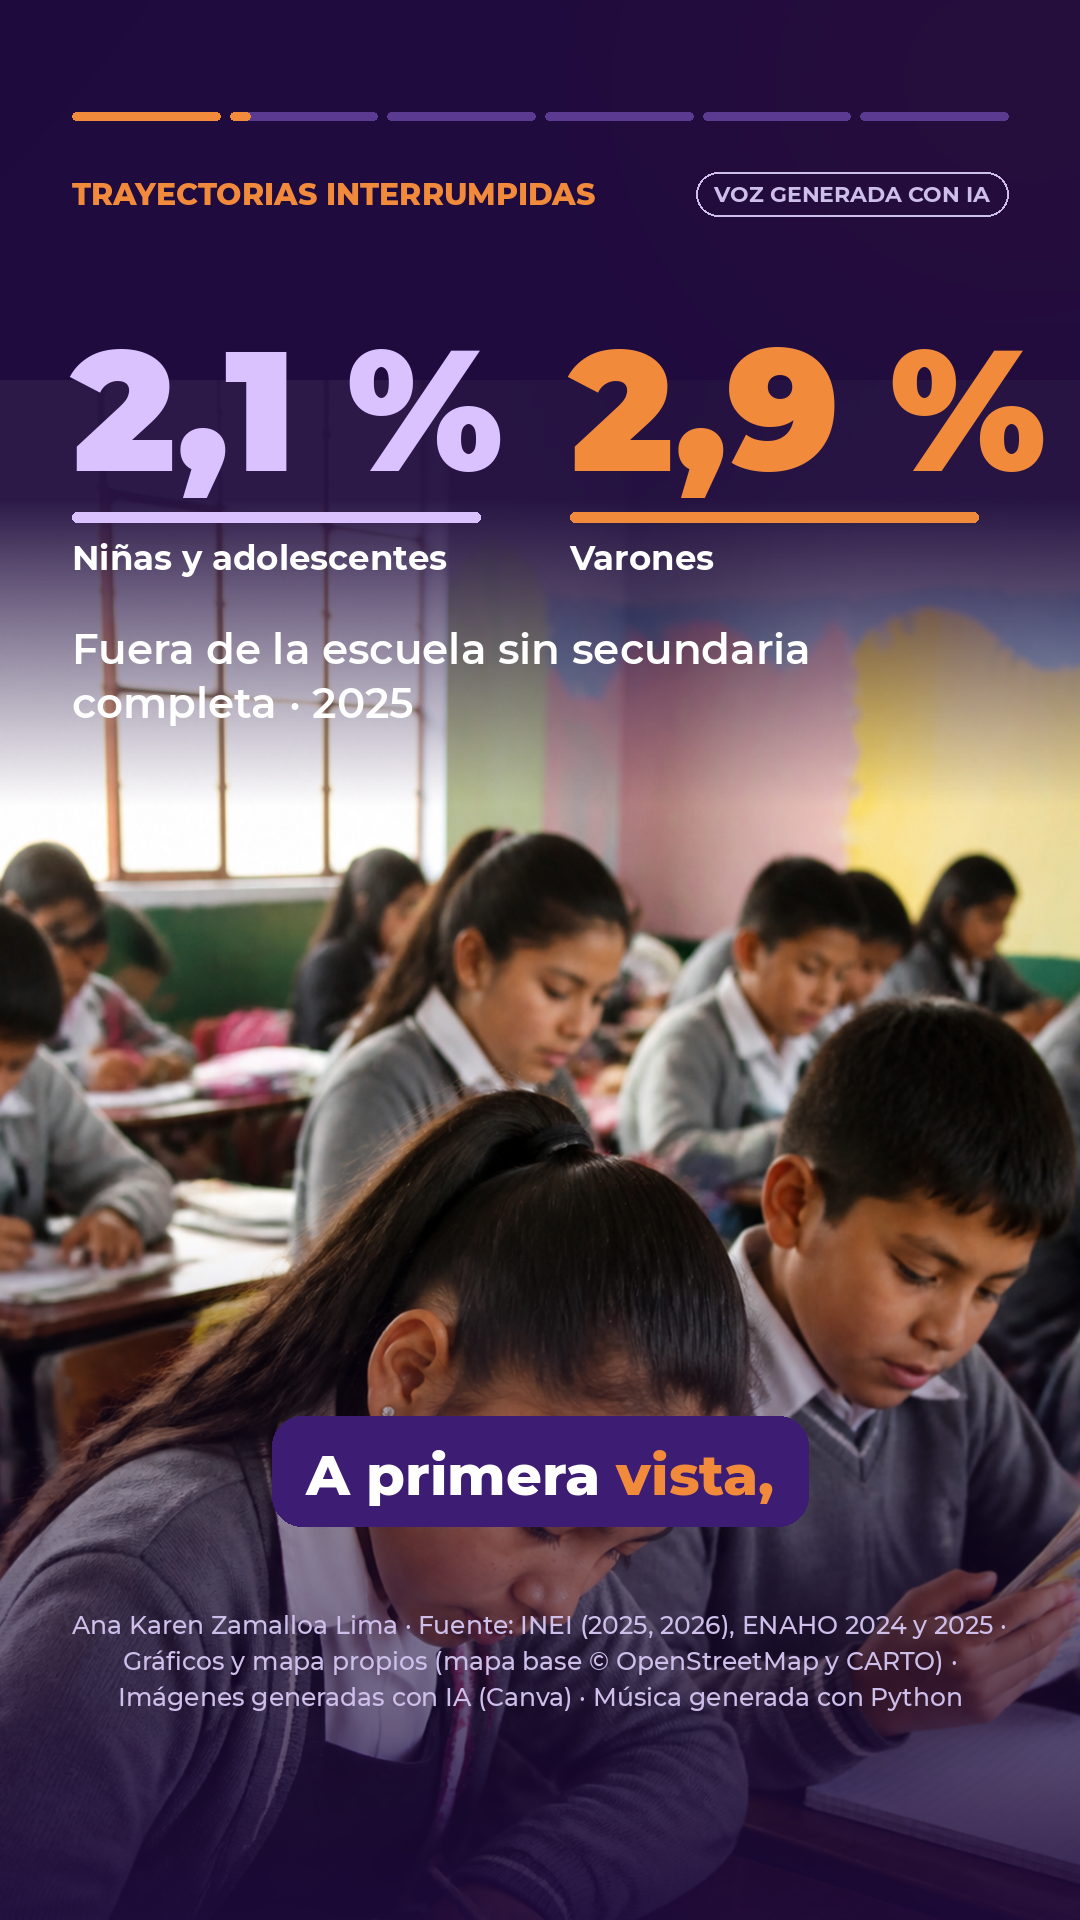
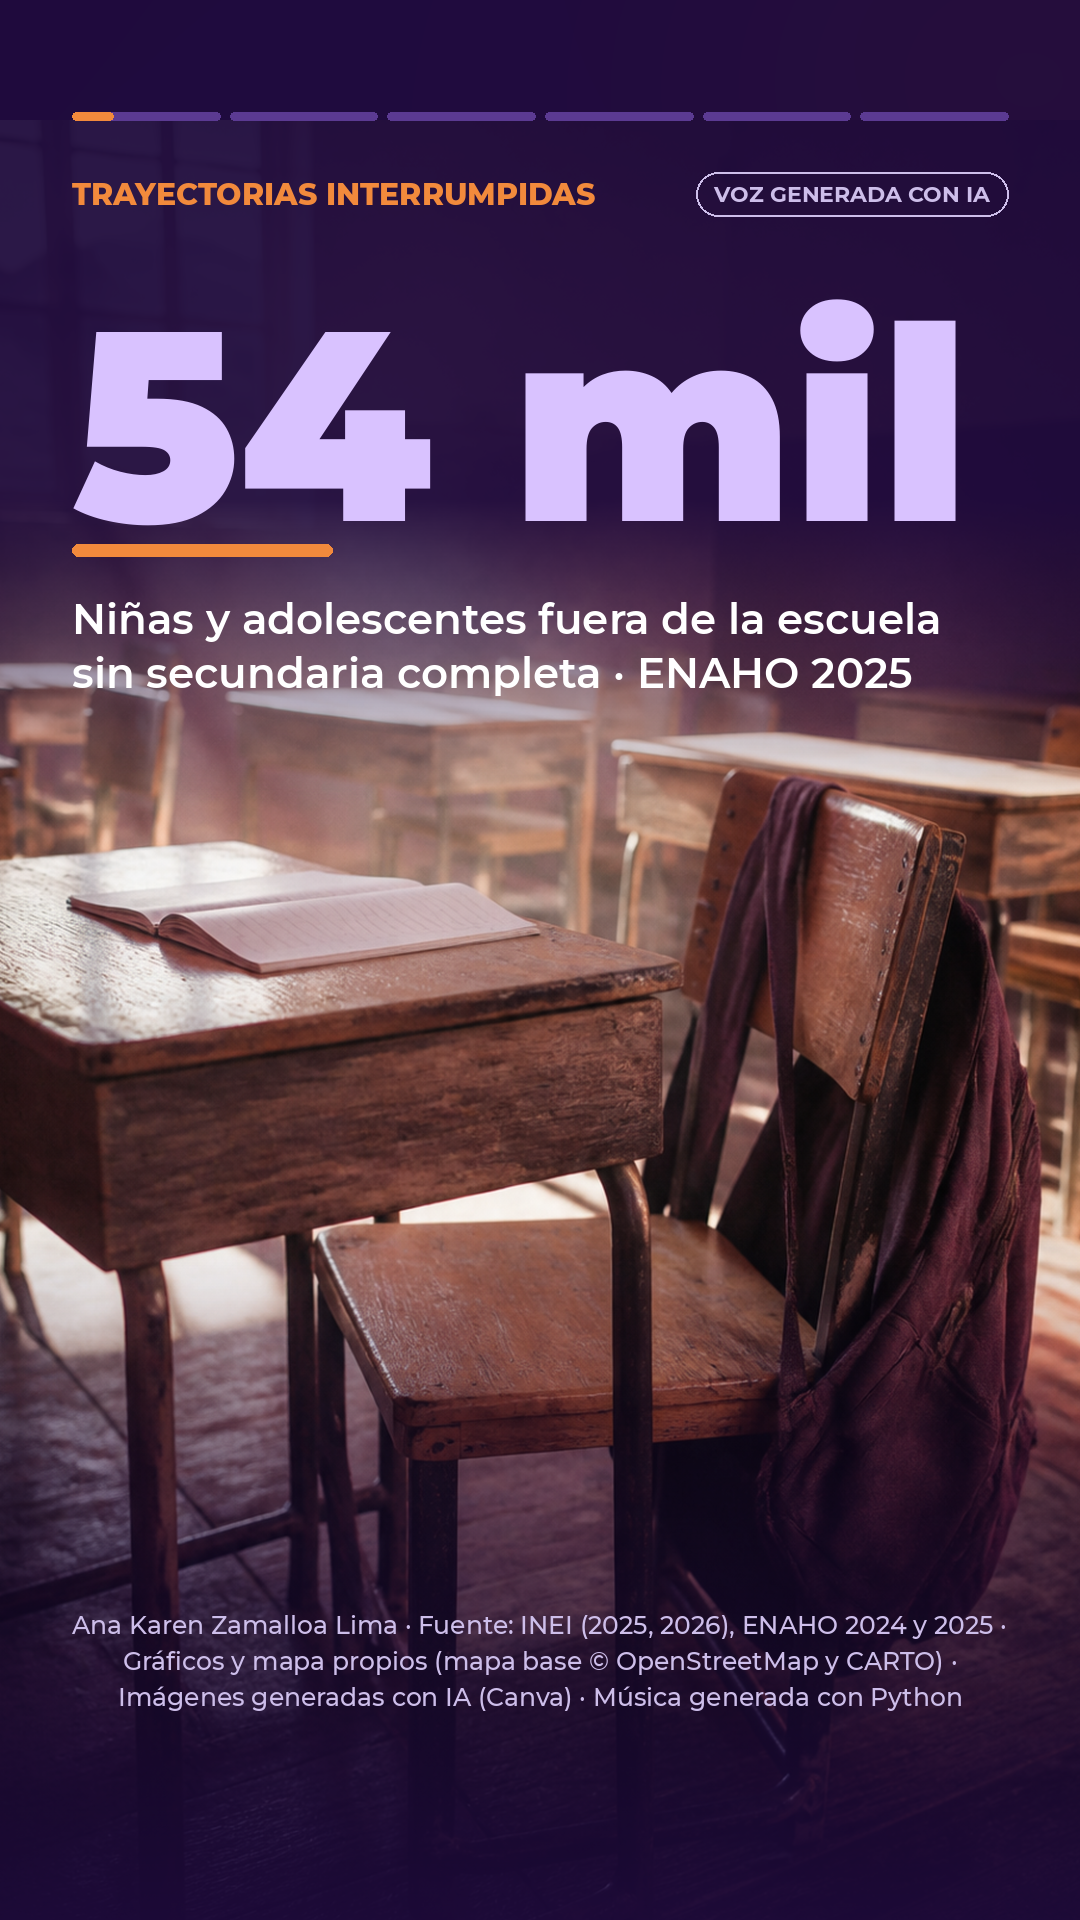
Enlace de LinkedIn y nueva portada del reel

diff --git a/tarea_7/README.md b/tarea_7/README.md
@@ -5,7 +5,7 @@ Diplomado de Ciencia de Datos para el Análisis Social y la Gestión Pública, P
 Ciencia de Datos con Python · Tarea 3 ([Issue #197](https://github.com/d2cml-ai/Data-Science-Python/issues/197)), desarrollada en la carpeta `tarea_7/` de este repositorio
 
 - **Dashboard público** https://anakaren-zl.github.io/data-science-python-2026/tarea_7/web/
-- **Publicación en LinkedIn** [por completar con el enlace de la publicación]
+- **Publicación en LinkedIn** https://www.linkedin.com/feed/update/urn:li:activity:7522842247521013760/
 - **Reel** `reel/reel.mp4` · guion en `reel/guion.json`
 
 ![Portada e indicadores del dashboard](web/assets/capturas/dashboard_1_portada_kpis.png)
@@ -200,7 +200,7 @@ El reel se genera con `reel/hacer_reel.py`, que reutiliza sin modificaciones el 
 
 - Dashboard https://anakaren-zl.github.io/data-science-python-2026/tarea_7/web/
 - Repositorio https://github.com/anakaren-zl/data-science-python-2026/tree/main/tarea_7
-- Publicación de LinkedIn [por completar]
+- Publicación de LinkedIn https://www.linkedin.com/feed/update/urn:li:activity:7522842247521013760/
 
 La publicación (texto en `reel/post_linkedin.md`) incluye el reel, dos capturas del dashboard (`web/assets/capturas/`) en el primer comentario, dado que LinkedIn no permite combinar video e imágenes en una misma publicación, una explicación del tema con los tres hallazgos, los enlaces al dashboard y al repositorio, y la advertencia de que algunas cifras desagregadas son referenciales, con el fin de evitar afirmaciones exageradas.
 
